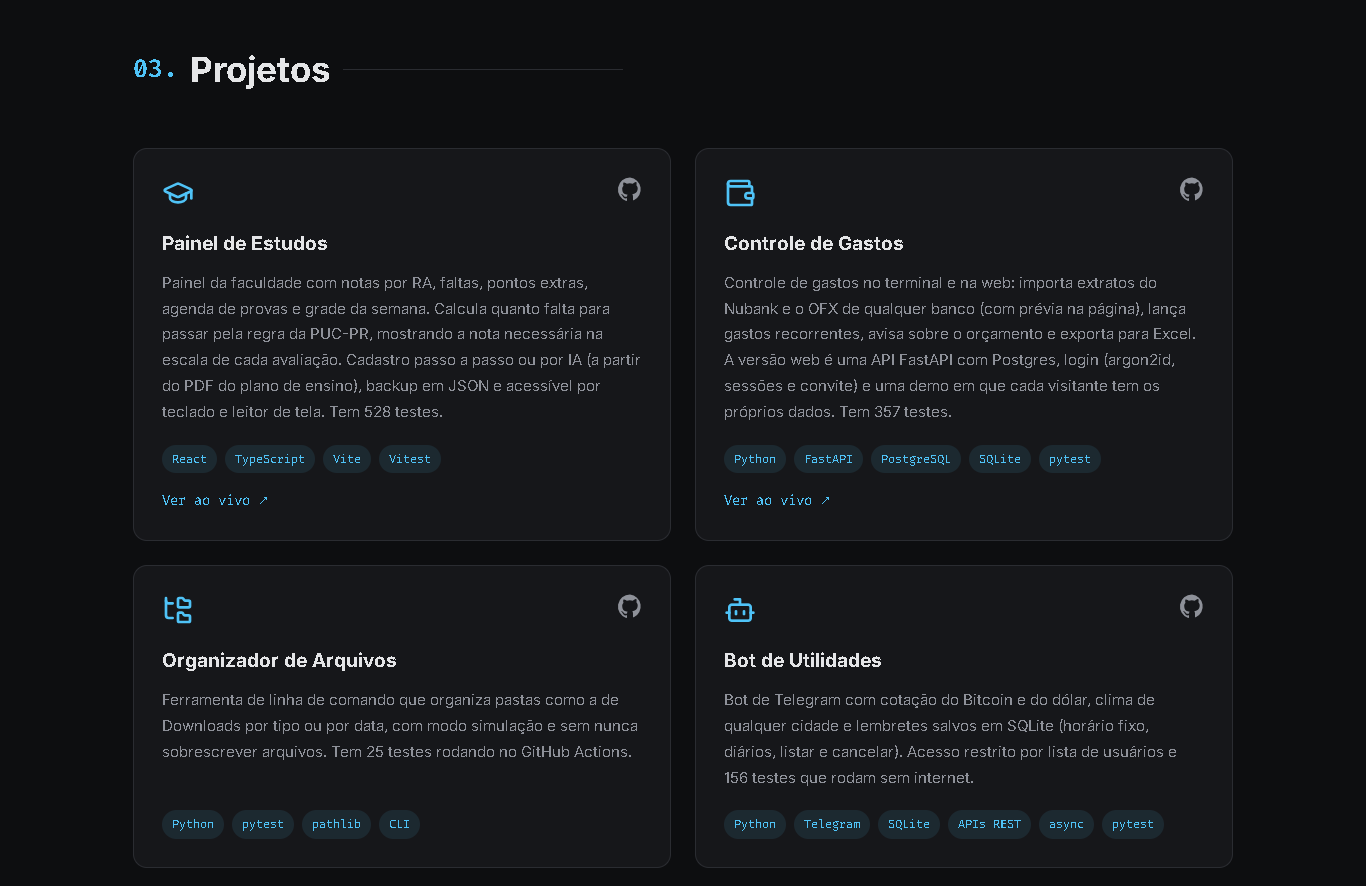
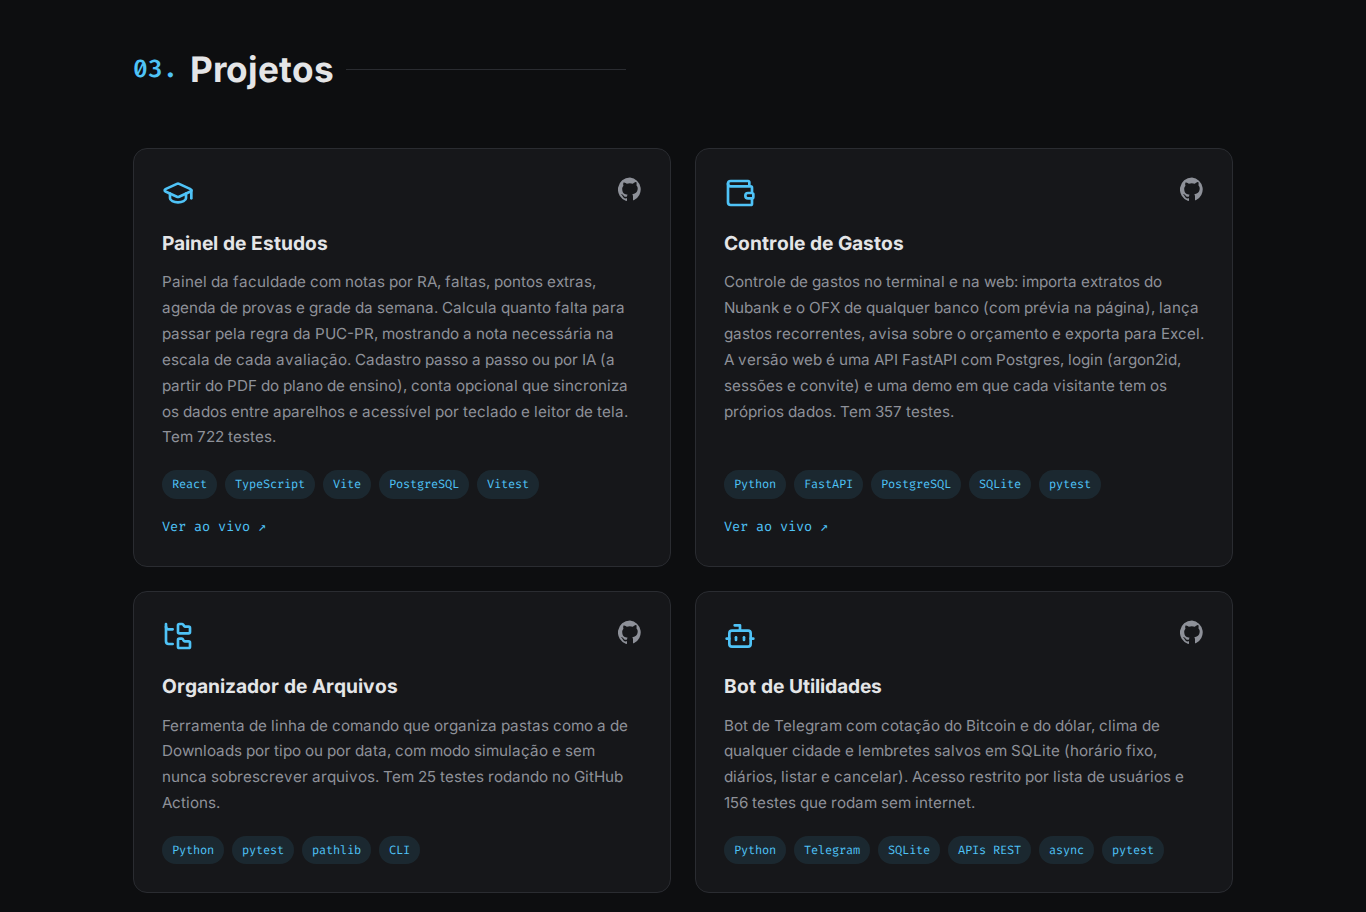
Card do Painel de Estudos: conta com nuvem, PostgreSQL e 722 testes

diff --git a/index.html b/index.html
@@ -148,11 +148,11 @@
             <p class="project__desc">
               Painel da faculdade com notas por RA, faltas, pontos extras, agenda de provas e grade da semana. Calcula quanto
               falta para passar pela regra da PUC-PR, mostrando a nota necessária na escala de cada avaliação.
-              Cadastro passo a passo ou por IA (a partir do PDF do plano de ensino), backup em JSON e
-              acessível por teclado e leitor de tela. Tem 528 testes.
+              Cadastro passo a passo ou por IA (a partir do PDF do plano de ensino), conta opcional que sincroniza
+              os dados entre aparelhos e acessível por teclado e leitor de tela. Tem 722 testes.
             </p>
             <ul class="project__tags">
-              <li>React</li><li>TypeScript</li><li>Vite</li><li>Vitest</li>
+              <li>React</li><li>TypeScript</li><li>Vite</li><li>PostgreSQL</li><li>Vitest</li>
             </ul>
             <a class="project__demo" href="https://painel-estudos-cyan.vercel.app" target="_blank" rel="noopener">Ver ao vivo ↗</a>
           </article>
